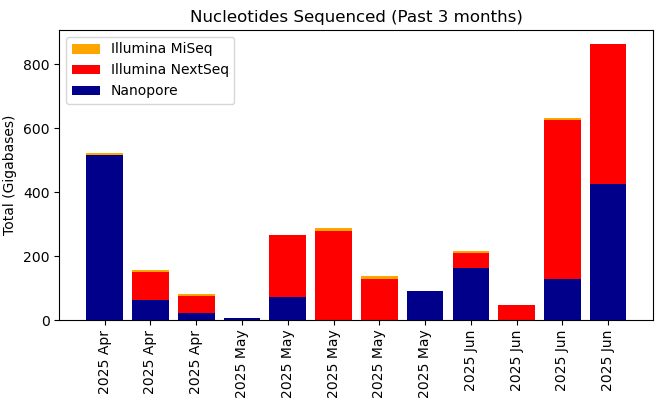
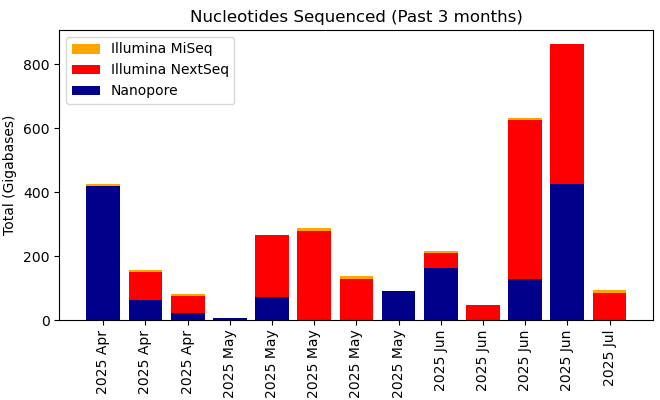
Your commit message here

diff --git a/krona/cgs.html b/krona/cgs.html
@@ -52,8 +52,8 @@ body {
   flex-direction: column;
 }
 </style>
-<H1>Genomics Facility Status: 07:00:16, 02/07/2025</H1>
-<marquee behavior="scroll" scrollamount="20" direction="left" bgcolor="lightgrey">AGCTAATGGCCGTCTTCATTTCCATGCGGTGCACTTTATGCGGACACTTCCTACAGGTAGCGTTGACCCTAATTTTGGTCGTCGGGTACGCAATCGCCGCCAGTTAAATAGCTTGCAAAATACGTGGCCTTATGGTTACAGTATGCCCATCGCAGTTCGCTACACGCAGGACGCTTTTTCACGTTCTGGTTGGTTGTGGCCTGTTGATGCTAAAGGTGAGCCGCTTAAGGCTACCAGTTATATGGCTGTTG</marquee>
+<H1>Genomics Facility Status: 07:00:11, 03/07/2025</H1>
+<marquee behavior="scroll" scrollamount="20" direction="left" bgcolor="lightgrey">CTAATGATTCACACGCCGACTGCTATCAGTATTTTTGTGTGCCTGAGTATGGTACAGCTAATGGCCGTCTTCATTTCCATGCGGTGCACTTTATGCGGACACTTCCTACAGGTAGCGTTGACCCTAATTTTGGTCGTCGGGTACGCAATCGCCGCCAGTTAAATAGCTTGCAAAATACGTGGCCTTATGGTTACAGTATGCCCATCGCAGTTCGCTACACGCAGGACGCTTTTTCACGTTCTGGTTGGTTG</marquee>
 <TABLE BORDER=0><TR><TD><TABLE class="styled-table"><H3>GigaBases Sequenced</H3>
-<TR><TD><b>Platform</b></TD><TD><b>Week</b></TD><TD><b>Month</b></TD><TD><b>Year</b></TD><TD><b>Total</b></TD></TR><TR><TD>Illumina MiSeq</TD><TD>0.0</TD><TD>13.35</TD><TD>226.2</TD><TD>226.2</TD></TR><TR><TD>Illumina NextSeq</TD><TD>439.8</TD><TD>1030.45</TD><TD>3769.6</TD><TD>3769.6</TD></TR><TR><TD>Nanopore PromethION</TD><TD>247.52</TD><TD>716.99</TD><TD>4581.97</TD><TD>5497.01</TD></TR></TABLE></TD><TD><IMG SRC="fig1.png"><IMG SRC="fig2.png"></TD></TR><TR><TD><H3>No. Samples (No. Experiments)</H3>
-<TABLE class="styled-table"><TR><TD><b>Platform</b></TD><TD><b>Week</b></TD><TD><b>Month</b></TD><TD><b>Year</b></TD><TD><b>Total</b></TD></TR><TR><TD>Illumina MiSeq</TD><TD>0 (0)</TD><TD>70 (2)</TD><TD>1154 (32)</TD><TD>1154 (32)</TD></TR><TR><TD>Illumina NextSeq</TD><TD>14 (1)</TD><TD>92 (6)</TD><TD>1034 (35)</TD><TD>1034 (35)</TD></TR><TR><TD>Nanopore PromethION</TD><TD>4 (3)</TD><TD>61 (13)</TD><TD>301 (138)</TD><TD>485 (171)</TD></TR></TABLE></TD><TD><IMG SRC="fig4.png"></TD></TR></TABLE></HTML>
+<TR><TD><b>Platform</b></TD><TD><b>Week</b></TD><TD><b>Month</b></TD><TD><b>Year</b></TD><TD><b>Total</b></TD></TR><TR><TD>Illumina MiSeq</TD><TD>7.72</TD><TD>21.07</TD><TD>233.92</TD><TD>233.92</TD></TR><TR><TD>Illumina NextSeq</TD><TD>524.75</TD><TD>1115.41</TD><TD>3854.56</TD><TD>3854.56</TD></TR><TR><TD>Nanopore PromethION</TD><TD>247.52</TD><TD>716.99</TD><TD>4549.05</TD><TD>5497.01</TD></TR></TABLE></TD><TD><IMG SRC="fig1.png"><IMG SRC="fig2.png"></TD></TR><TR><TD><H3>No. Samples (No. Experiments)</H3>
+<TABLE class="styled-table"><TR><TD><b>Platform</b></TD><TD><b>Week</b></TD><TD><b>Month</b></TD><TD><b>Year</b></TD><TD><b>Total</b></TD></TR><TR><TD>Illumina MiSeq</TD><TD>35 (1)</TD><TD>105 (3)</TD><TD>1189 (33)</TD><TD>1189 (33)</TD></TR><TR><TD>Illumina NextSeq</TD><TD>84 (2)</TD><TD>162 (7)</TD><TD>1104 (36)</TD><TD>1104 (36)</TD></TR><TR><TD>Nanopore PromethION</TD><TD>4 (3)</TD><TD>65 (13)</TD><TD>297 (135)</TD><TD>489 (171)</TD></TR></TABLE></TD><TD><IMG SRC="fig4.png"></TD></TR></TABLE></HTML>
